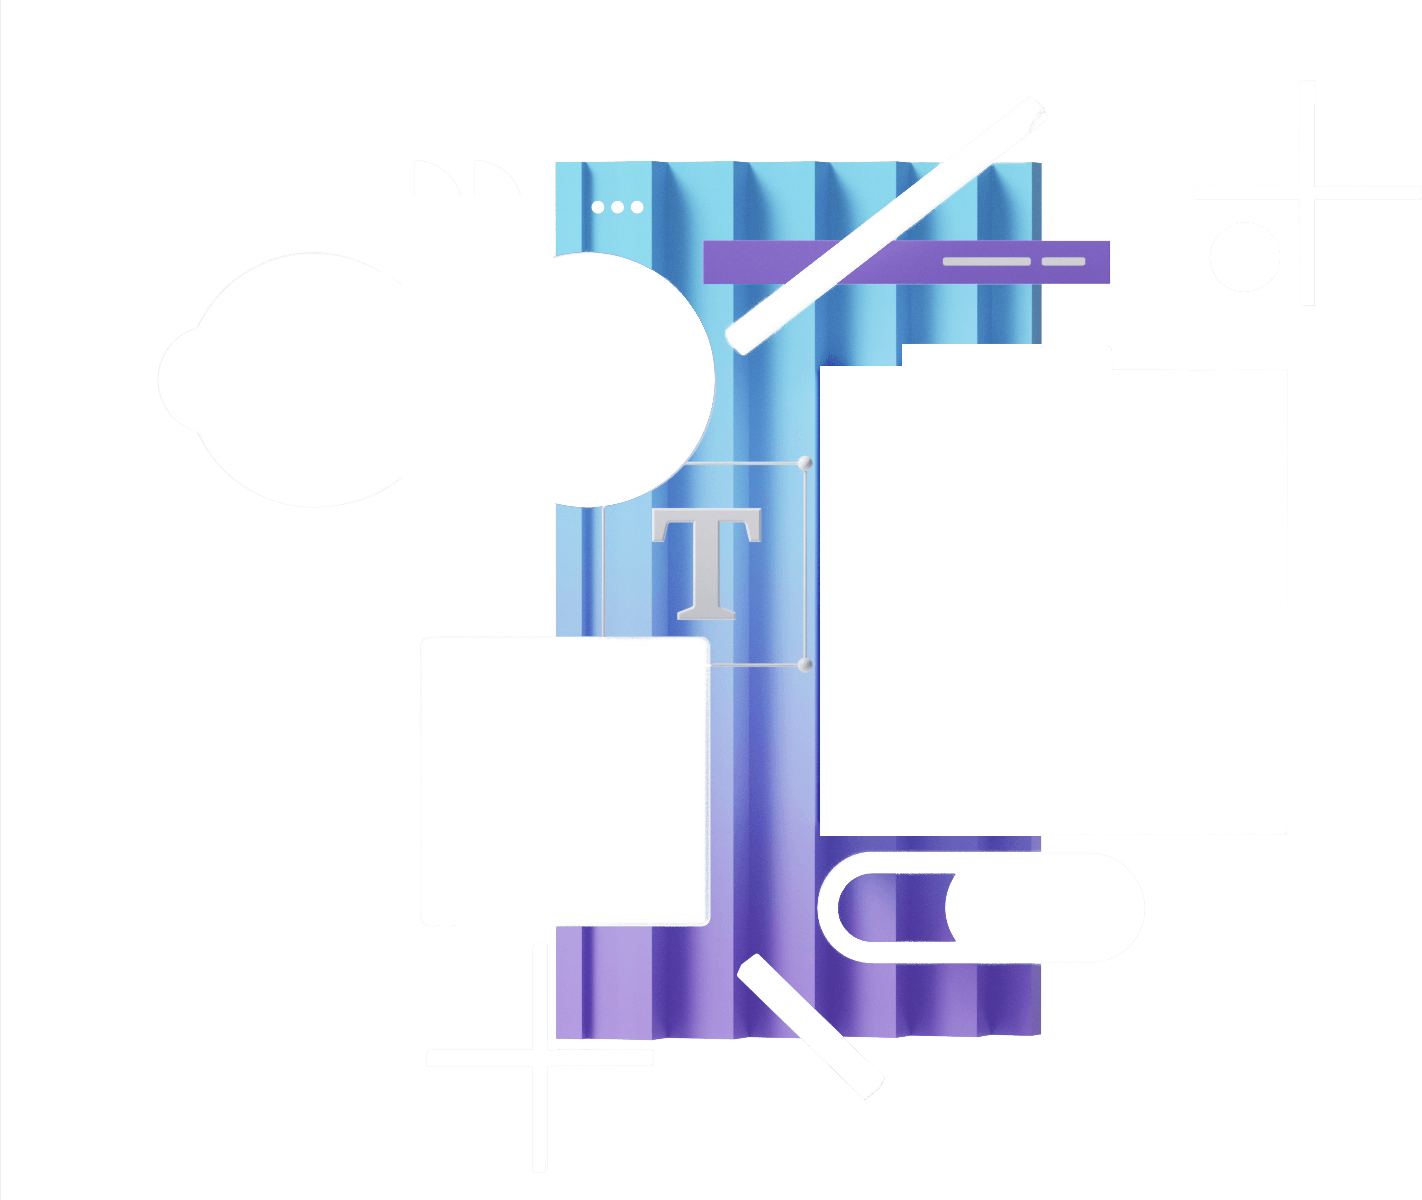
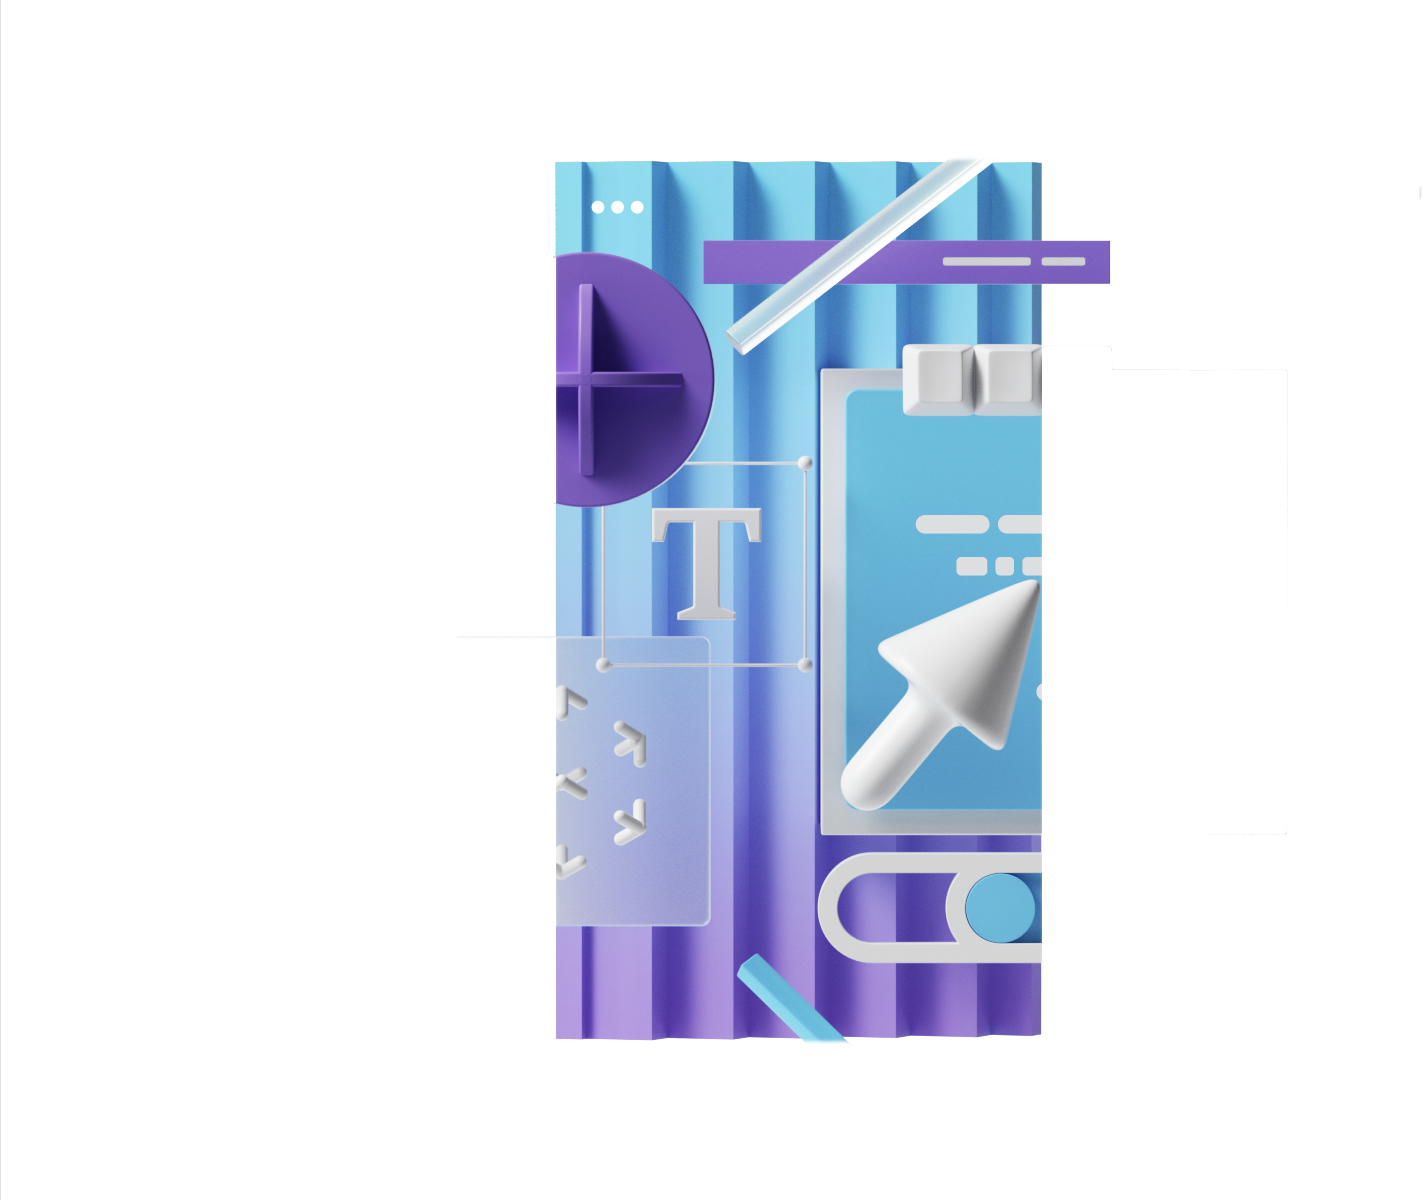
-

diff --git a/src/style/global.scss b/src/style/global.scss
@@ -89,15 +89,16 @@ body {
   --ease-2: all 0.15s ease-out;
   --ease-3: all 0.3s cubic-bezier(0.34, 1.56, 0.64, 1);
   --blend: multiply;
+  --filter-1: none;
 }
 
 .darkmode {
-  --cr-white: #0F0F13;
+  --cr-white: #0f0f13;
   --cr-bg-1: #1e1e25;
-  --cr-bg-2: #141419;
+  --cr-bg-2: #1e1e25;
   --cr-bg-3: hsl(203, 90%, 98%);
   --cr-icon-1: #667093;
-  --cr-blue-1: #3F8CFF;
+  --cr-blue-1: #3f8cff;
   --cr-blue-2: var(--cr-white);
   --cr-font-1: hsl(227, 12%, 80%);
   --cr-font-2: hsl(227, 12%, 40%);
@@ -109,4 +110,5 @@ body {
   --shadow-3: 0 2px 16px rgba(103, 110, 144, 0.15);
   --shadow-4: 0 0 0 2px rgba(211, 211, 211, 0.2);
   --blend: none;
+  --filter-1: invert(1) hue-rotate(-120deg);
 }

diff --git a/src/App_style.js b/src/App_style.js
@@ -421,6 +421,8 @@ export const Header = styled.header`
       height: 640px;
       max-height: fit-content;
       margin-top: -6%;
+      transition: var(--ease-1);
+      filter: var(--filter-1);
 
       img {
         position: absolute;
@@ -643,7 +645,6 @@ export const StartSection = styled.section`
   margin: var(--mg-160) 0;
   max-width: 1200px;
   width: 100%;
-  background: var(--cr-white);
 
   .card-wrap {
     width: 100%;
